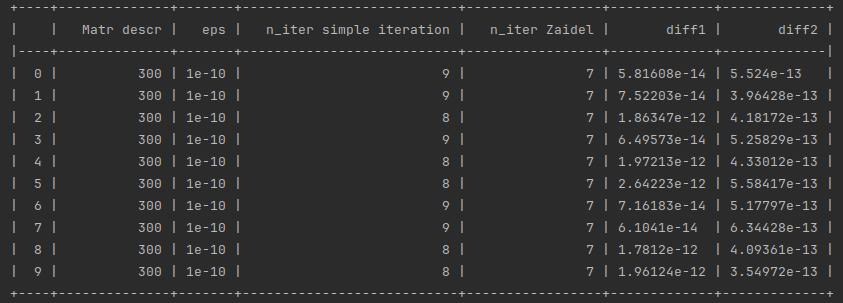
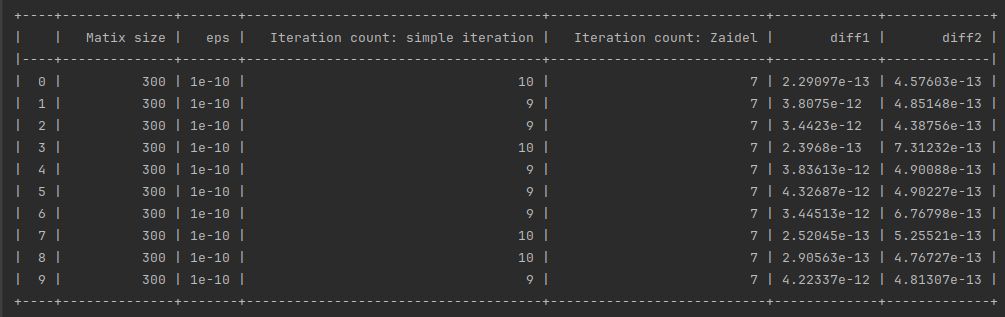
fix

diff --git a/task4/task4.py b/task4/task4.py
@@ -67,18 +67,20 @@ class Linear:
             n_it += 1
             prev_x = curr_x
             curr_x = np.matmul(np.matmul(np.linalg.inv(e-h_l), h_r), prev_x) + np.matmul(np.linalg.inv(e-h_l), g)
-        print(n_it)
         return curr_x, n_it
+
 
 def get_big_mat(n):
     mat = np.array([[0 for _ in range(n)] for _ in range(n)], dtype='d')
     k = 10
     for i in range(n):
-        for j in range(n):
+        for j in range(i, n):
             if i==j:
                 mat[i][j] = random.randint(k*n+1, k*2*n)
             else:
-                mat[i][j] = random.randint(-k, k)
+                value = random.randint(-k, k)
+                mat[i][j] = value
+                mat[j][i] = value
     return mat
 
 # a = np.array([[2, 0, 1], [0, 2, 0], [0, 1, 2]], dtype='d')
